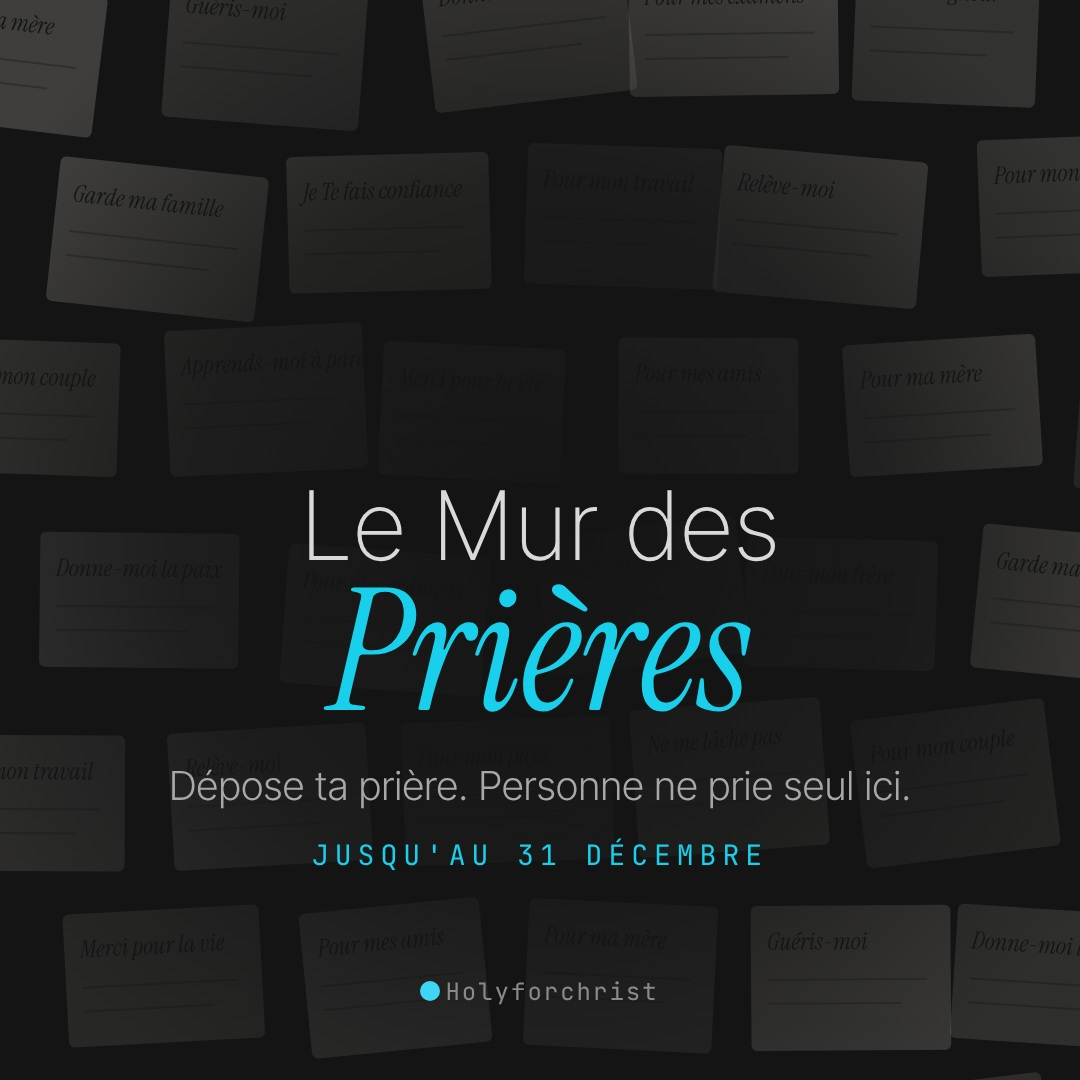
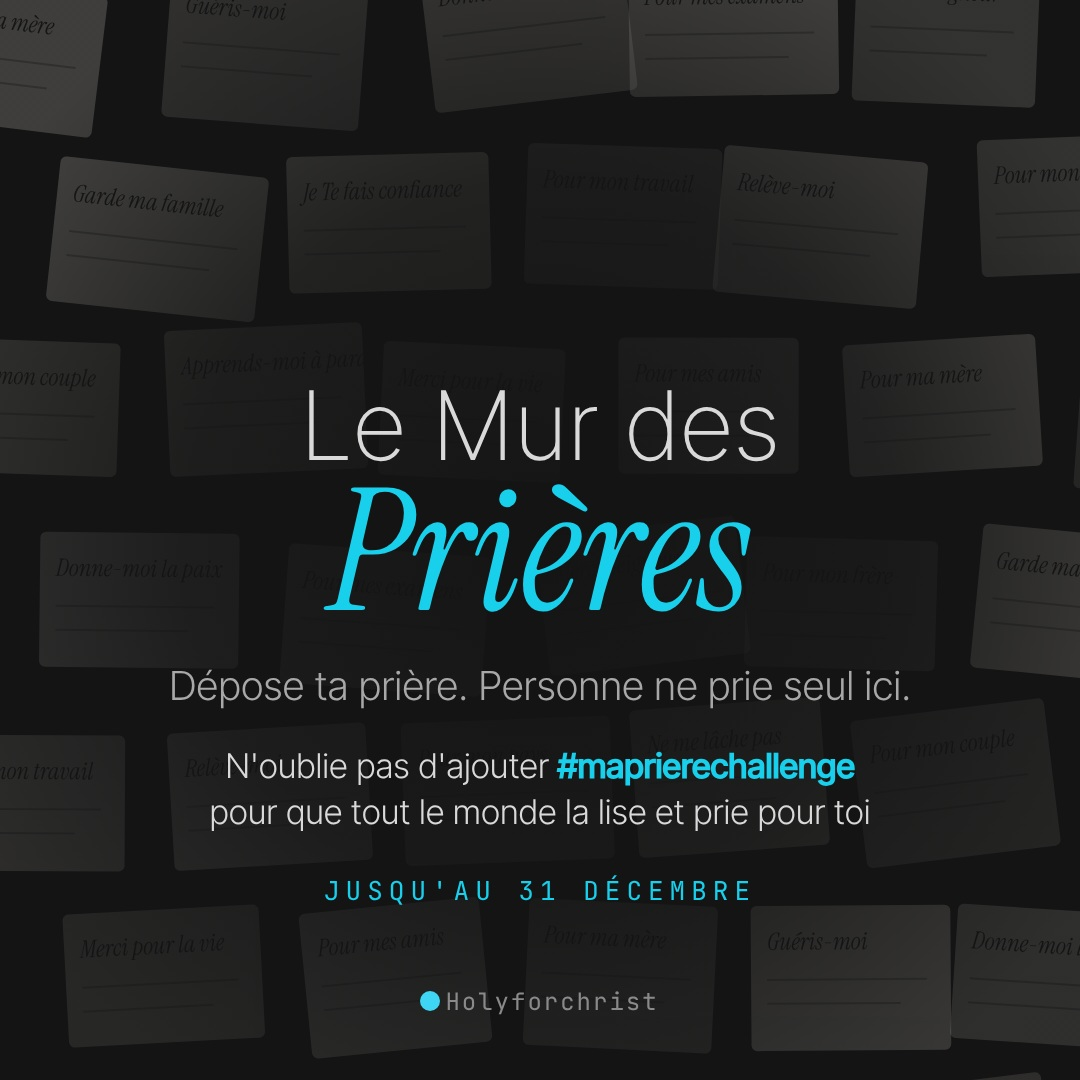
Holy: couverture Mur des Prières format moyen + rappel #maprierechallenge
Claude-Session: https://claude.ai/code/session_01CHvGS8RJVXEUEUzwJEWhyw

diff --git a/posts/2026-11-05-holy-mur-des-prieres/mur.js b/posts/2026-11-05-holy-mur-des-prieres/mur.js
@@ -1,0 +1,17 @@
+const { chromium } = require('playwright');
+const font=`<link href="https://fonts.googleapis.com/css2?family=Instrument+Serif:ital@0;1&family=Inter+Tight:wght@200;300;500&family=JetBrains+Mono&display=swap" rel="stylesheet">`;
+const mk=(W,H,seed)=>{let s=seed;const r=()=>(s=(s*16807)%2147483647)/2147483647;
+const words=["Pour ma mère","Guéris-moi","Donne-moi la paix","Pour mes examens","Merci Seigneur","Pour mon frère","Garde ma famille","Je Te fais confiance","Pour mon travail","Relève-moi","Pour mon pays","Ne me lâche pas","Pour mon couple","Apprends-moi à pardonner","Merci pour la vie","Pour mes amis"];
+let notes='';const cols=Math.ceil(W/230)+1,rows=Math.ceil(H/190)+1;let k=0;
+for(let j=0;j<rows;j++)for(let i=0;i<cols;i++){const x=i*230+(j%2)*115-60+(r()-.5)*40,y=j*190-40+(r()-.5)*30,w=180+r()*30,h=130+r()*20,rot=(r()-.5)*14,o=.10+r()*.18;
+ const t=words[(k++)%words.length];
+ notes+=`<g transform="translate(${x} ${y}) rotate(${rot})" opacity="${o}"><rect width="${w}" height="${h}" rx="6" fill="#e8e4dc"/><text x="16" y="44" font-family="Instrument Serif" font-style="italic" font-size="24" fill="#1a1a1a">${t}</text><path d="M16 74H${w-24}M16 98H${w-50}" stroke="#1a1a1a" stroke-opacity=".35" stroke-width="2"/></g>`;}
+const cx=W/2,cy=H/2,sc=Math.min(W,H)/1080;
+return `<!doctype html>${font}<style>body{margin:0}</style><svg xmlns="http://www.w3.org/2000/svg" width="${W}" height="${H}"><defs><radialGradient id="v" cx=".5" cy=".5" r=".6"><stop offset="0" stop-color="#141414" stop-opacity=".97"/><stop offset=".55" stop-color="#141414" stop-opacity=".75"/><stop offset="1" stop-color="#141414" stop-opacity=".2"/></radialGradient><radialGradient id="h"><stop offset="0" stop-color="#18cfec" stop-opacity=".45"/><stop offset="1" stop-color="#18cfec" stop-opacity="0"/></radialGradient><radialGradient id="ob" cx=".4" cy=".35" r=".7"><stop offset="0" stop-color="#bff6ff"/><stop offset=".45" stop-color="#3fd6f5"/><stop offset="1" stop-color="#0a8fb8"/></radialGradient></defs>
+<rect width="${W}" height="${H}" fill="#141414"/>${notes}<rect width="${W}" height="${H}" fill="url(#v)"/>
+
+<g transform="translate(${cx} ${cy-80*sc}) scale(${sc})"><text y="0" text-anchor="middle" font-family="Inter Tight" font-weight="200" font-size="96" fill="#d9d9d9">Le Mur des</text><text y="150" text-anchor="middle" font-family="Instrument Serif" font-style="italic" font-size="170" fill="#18cfec">Prières</text><text y="240" text-anchor="middle" font-family="Inter Tight" font-weight="300" font-size="40" fill="#a8a8a8">Dépose ta prière. Personne ne prie seul ici.</text><text y="318" text-anchor="middle" font-family="Inter Tight" font-weight="300" font-size="34" fill="#d9d9d9">N'oublie pas d'ajouter <tspan font-weight="600" fill="#18cfec">#maprierechallenge</tspan></text><text y="364" text-anchor="middle" font-family="Inter Tight" font-weight="300" font-size="34" fill="#d9d9d9">pour que tout le monde la lise et prie pour toi</text><text y="440" text-anchor="middle" font-family="JetBrains Mono" font-size="26" letter-spacing="6" fill="#18cfec">JUSQU'AU 31 DÉCEMBRE</text>
+<circle cx="-110" cy="${H/sc/2+1}" r="10" fill="#3fd6f5"/><text x="12" y="${H/sc/2+10}" text-anchor="middle" font-family="JetBrains Mono" font-size="24" letter-spacing="2" fill="#8a8a8a">Holyforchrist</text></g></svg>`;};
+(async()=>{const b=await chromium.launch();
+for(const [n,W,H] of [['mur-des-prieres-moyen',1440,1080],['mur-des-prieres-paysage',1920,1080],['mur-des-prieres-carre',1080,1080]]){const p=await b.newPage({viewport:{width:W,height:H}});await p.setContent(mk(W,H,4242),{waitUntil:'networkidle'});await p.evaluate(()=>document.fonts.ready);await p.waitForTimeout(400);await p.screenshot({path:`/tmp/md/mur/${n}.jpg`,type:'jpeg',quality:94});await p.close();}
+await b.close();})();
